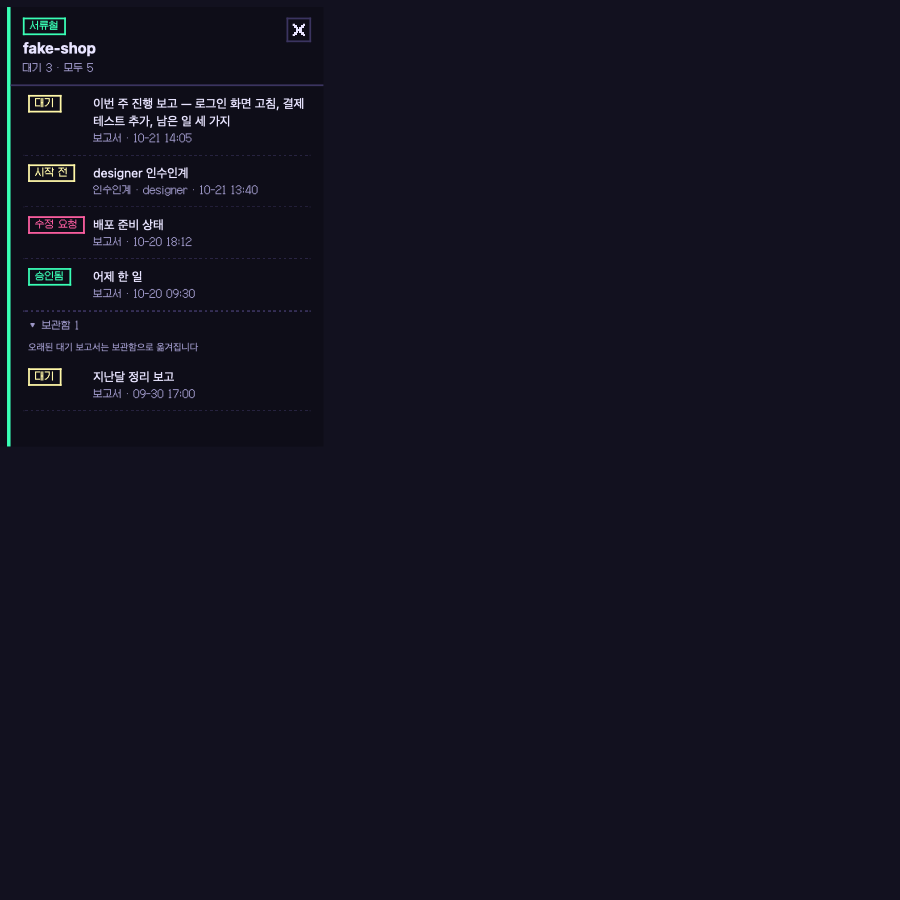
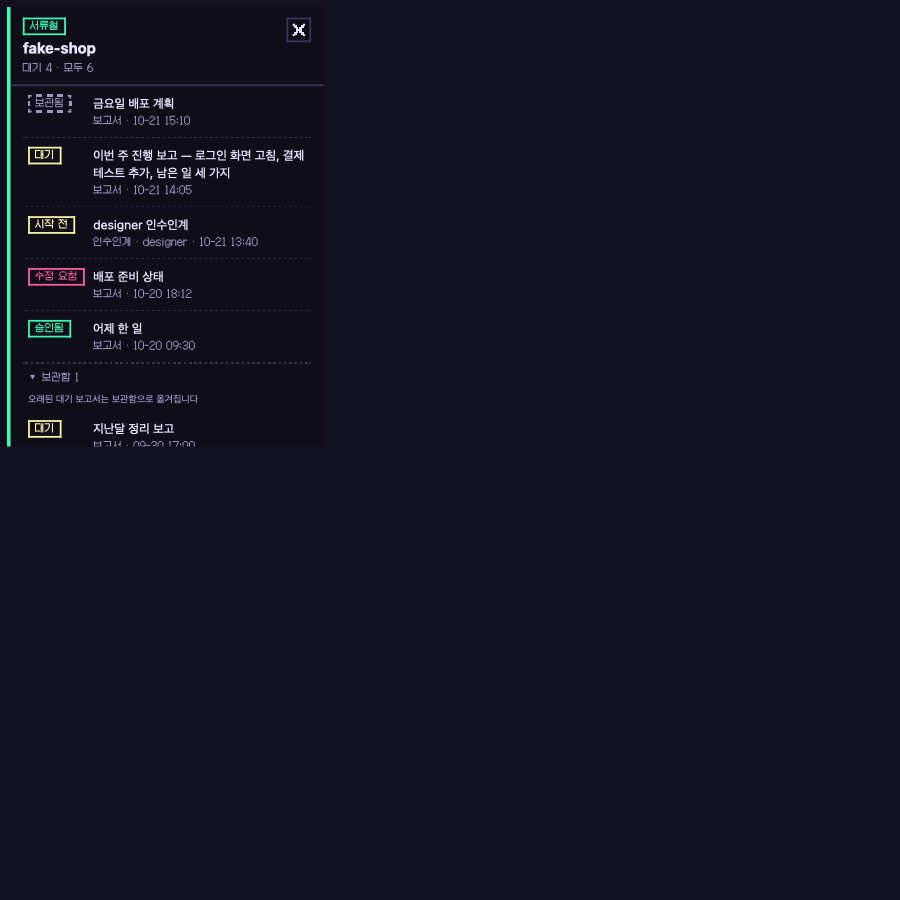
docs(design): Phase 6b spec 12 k-m - ask_user clearing, per-target holds and held approval stamp, retire resumes after restart

Changed region(s): [[0.0311, 0.0933, 0.3422, 0.4978], [0.1867, 0.3111, 0.2178, 0.3422]]

diff --git a/docs/design/phase6b/renders/mock.css b/docs/design/phase6b/renders/mock.css
@@ -108,3 +108,4 @@
 .counter .value { grid-row: 2; line-height: 24px; font-variant-numeric: tabular-nums; }
 .counter .sub { grid-row: 3; line-height: 14px; white-space: nowrap; }
 .rf-archive-note { margin: 0 6px 6px; font-family: var(--font-text); font-size: 11px; color: var(--muted); word-break: keep-all; }
+.rf-stamp.held { color: var(--muted); border-style: dashed; }
